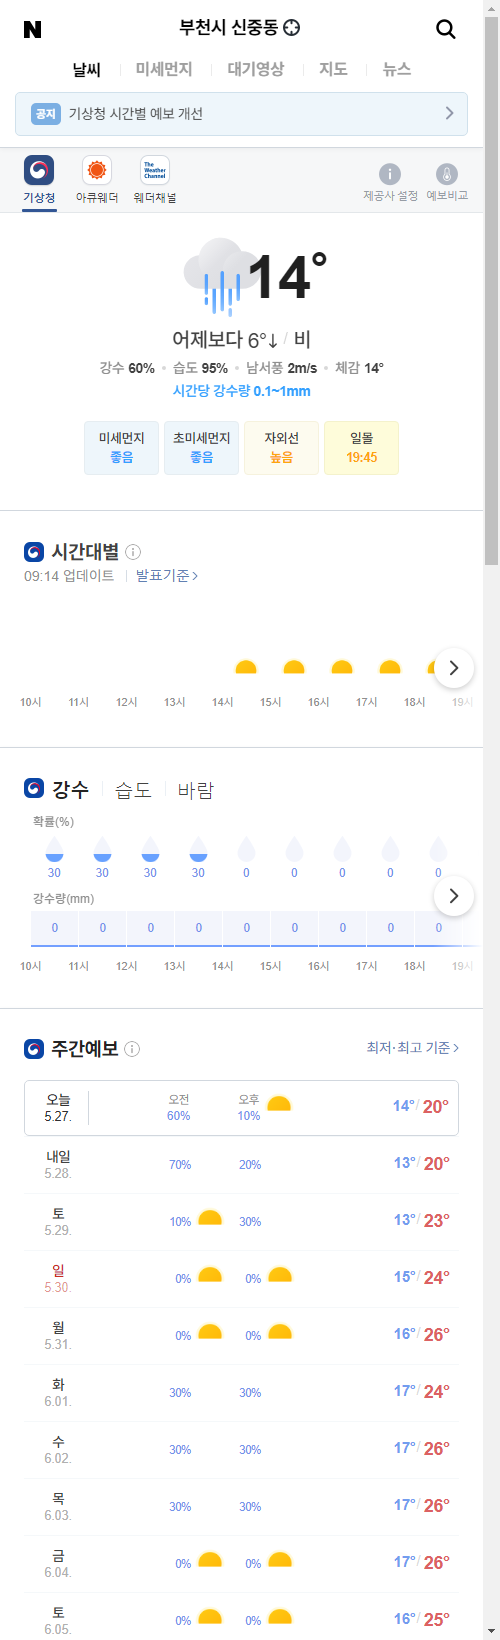
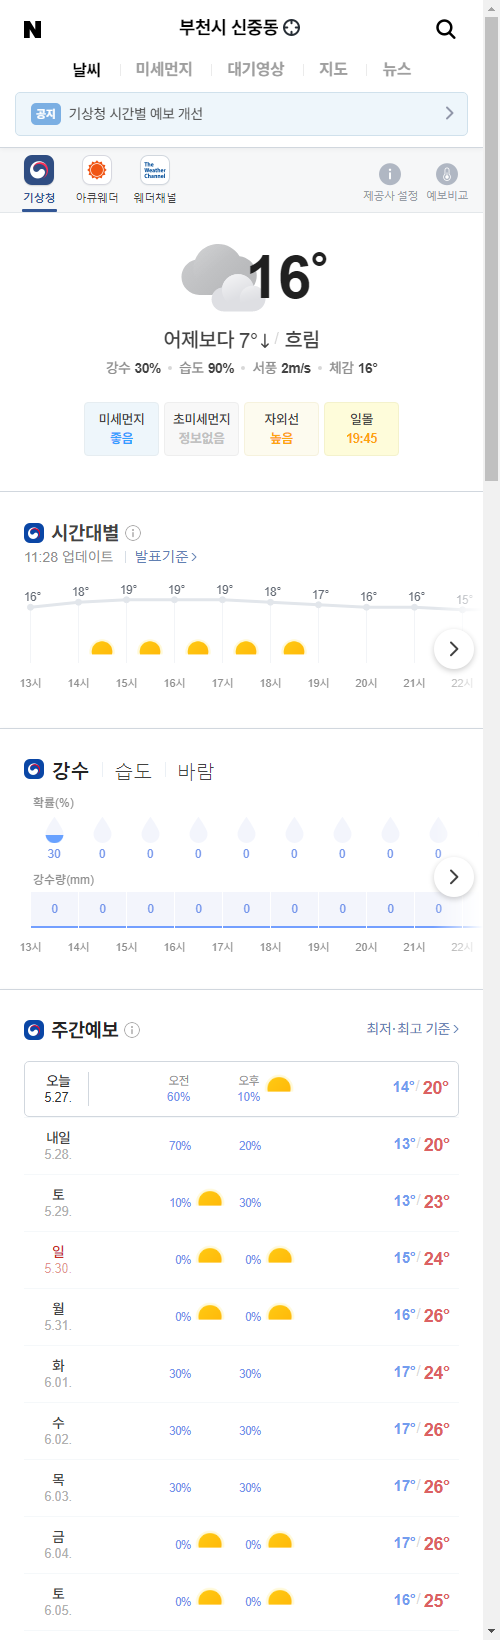
update result

diff --git a/README.md b/README.md
@@ -1,5 +1,5 @@
-##  2021-05-27 09:16:50   목요일 
-##### 날씨   -   어제보다 6° 낮아요비  
+##  2021-05-27 12:07:38   목요일 
+##### 날씨   -   어제보다 7° 낮아요흐림  
 <center><img src="../img/naver_weather_week.png"></center>
 ----
 ----
@@ -16,14 +16,14 @@
 <tr align = "right" > <td>DOW</td><td>34,323.05</td><td>10.59</td><td><font size="3" color="red" >0.03%</font></td><td><font size="3" color="black">0</font></td><td><font size="3" color="black">0</font></td><td>0</td>  </tr>
 <tr align = "right" > <td>NASDAQ</td><td>13,738.0</td><td>80.83</td><td><font size="3" color="red" >0.59%</font></td><td><font size="3" color="black">0</font></td><td><font size="3" color="black">0</font></td><td>0</td>  </tr>
 <tr align = "right" > <td>S&P</td><td>4,195.99</td><td>7.86</td><td><font size="3" color="red" >0.19%</font></td><td><font size="3" color="black">0</font></td><td><font size="3" color="black">0</font></td><td>0</td>  </tr>
-<tr align = "right" > <td>SHANHAI</td><td>3,593.36</td><td>12.02</td><td><font size="3" color="red" >0.34%</font></td><td><font size="3" color="black">0</font></td><td><font size="3" color="black">0</font></td><td>0</td>  </tr>
+<tr align = "right" > <td>SHANHAI</td><td>3,620.87</td><td>27.51</td><td><font size="3" color="red" >0.77%</font></td><td><font size="3" color="black">0</font></td><td><font size="3" color="black">0</font></td><td>0</td>  </tr>
 <tr align = "right" > <td>INDIA</td><td>51,017.52</td><td>379.99</td><td><font size="3" color="red" >0.75%</font></td><td><font size="3" color="black">0</font></td><td><font size="3" color="black">0</font></td><td>0</td>  </tr>
 </table>
 ----
 ##### 시장
 <table border="1" bordercolor="blue" align = "center" >
 <tr align = "right" > <td>Item</td><td>Price</td><td>Diff</td><td>Rate</td><td>Buy</td><td>Sell</td><td>...</td>  </tr>
-<tr align = "right" > <td>USD</td><td>1,118.0</td><td>1.0</td><td><font size="3" color="red">0.09%</font></td><td><font size="3" color="black">1,110</font></td><td><font size="3" color="black">0</font></td><td>0</td>  </tr>
+<tr align = "right" > <td>USD</td><td>1,117.0</td><td>0.5</td><td><font size="3" color="red">0.04%</font></td><td><font size="3" color="black">1,110</font></td><td><font size="3" color="black">0</font></td><td>0</td>  </tr>
 <tr align = "right" > <td>WTI</td><td>66.21</td><td>0.14</td><td><font size="3" color="red">0.21%</font></td><td><font size="3" color="black">29.0</font></td><td><font size="3" color="black">0</font></td><td>0</td>  </tr>
 <tr align = "right" > <td>GOLD</td><td>1,901.0</td><td>3.2</td><td><font size="3" color="red">0.16%</font></td><td><font size="3" color="black">0</font></td><td><font size="3" color="black">0</font></td><td>0</td>  </tr>
 </table>
@@ -31,26 +31,26 @@
 ##### 주가
 <table border="1" bordercolor="blue" align = "center" >
 <tr align = "right" > <td>Item</td><td>Price</td><td>Diff</td><td>Rate</td><td>Purchased</td><td>Sell</td><td>Buy</td>  </tr>
-<tr align = "right" > <td>한국 전력</td><td>26,300</td><td>50</td><td><font size="3" color="red">0.19%</font></td><td>25,720</td><td><font size="3" color="black">27,700</font></td><td><font size="3" color="black">20,700</font></td>  </tr>
+<tr align = "right" > <td>한국 전력</td><td>26,100</td><td>-150</td><td><font size="3" color="blue">-0.57%</font></td><td>25,720</td><td><font size="3" color="black">27,700</font></td><td><font size="3" color="black">20,700</font></td>  </tr>
 <tr align = "right" > <td>삼성엔지니어.</td><td>18,900</td><td>200</td><td><font size="3" color="red">1.07%</font></td><td>18,935</td><td><font size="3" color="black">20,000</font></td><td><font size="3" color="black">8,000</font></td>  </tr>
-<tr align = "right" > <td>CJ CGV</td><td>31,650</td><td>-300</td><td><font size="3" color="blue">-0.94%</font></td><td>34,895</td><td><font size="3" color="black">36,000</font></td><td><font size="3" color="black">0</font></td>  </tr>
-<tr align = "right" > <td>아모레퍼시픽</td><td>299,500</td><td>2,500</td><td><font size="3" color="red">0.84%</font></td><td>235,350</td><td><font size="3" color="black">240,000</font></td><td><font size="3" color="black">130,000</font></td>  </tr>
-<tr align = "right" > <td>한화</td><td>32,600</td><td>400</td><td><font size="3" color="red">1.24%</font></td><td>25,550</td><td><font size="3" color="black">26,250</font></td><td><font size="3" color="black">26,250</font></td>  </tr>
-<tr align = "right" > <td>NAVER</td><td>357,500</td><td>-5,500</td><td><font size="3" color="blue">-1.52%</font></td><td>147,200</td><td><font size="3" color="black">386,000</font></td><td><font size="3" color="black">286,000</font></td>  </tr>
-<tr align = "right" > <td>LG 화학우</td><td>373,000</td><td>-14,000</td><td><font size="3" color="blue">-3.62%</font></td><td>202,490</td><td><font size="3" color="black">384,000</font></td><td><font size="3" color="orangered">384,000</font></td>  </tr>
-<tr align = "right" > <td>스튜디오드래.</td><td>95,800</td><td>300</td><td><font size="3" color="red">0.31%</font></td><td>81,243</td><td><font size="3" color="black">85,200</font></td><td><font size="3" color="black">85,200</font></td>  </tr>
-<tr align = "right" > <td>QV미국IT</td><td>28,480</td><td>-5</td><td><font size="3" color="blue">-0.02%</font></td><td>0</td><td><font size="3" color="black">30,000</font></td><td><font size="3" color="black">20,000</font></td>  </tr>
-<tr align = "right" > <td>삼성 전자우</td><td>72,600</td><td>-400</td><td><font size="3" color="blue">-0.55%</font></td><td>48,250</td><td><font size="3" color="black">56,000</font></td><td><font size="3" color="black">45,000</font></td>  </tr>
-<tr align = "right" > <td>LS</td><td>68,300</td><td>-100</td><td><font size="3" color="blue">-0.15%</font></td><td>71,900</td><td><font size="3" color="black">82,000</font></td><td><font size="3" color="black">60,000</font></td>  </tr>
-<tr align = "right" > <td>한화에어로스.</td><td>48,650</td><td>-400</td><td><font size="3" color="blue">-0.82%</font></td><td>25,700</td><td><font size="3" color="black">30,000</font></td><td><font size="3" color="black">24,000</font></td>  </tr>
-<tr align = "right" > <td>카카오</td><td>119,500</td><td>0</td><td><font size="3" color="black">0.0%</font></td><td>405,500</td><td><font size="3" color="black">440,000</font></td><td><font size="3" color="orangered">400,000</font></td>  </tr>
-<tr align = "right" > <td>호텔 신라</td><td>98,100</td><td>0</td><td><font size="3" color="black">0.0%</font></td><td>72,800</td><td><font size="3" color="black">100,000</font></td><td><font size="3" color="black">70,000</font></td>  </tr>
-<tr align = "right" > <td>S-Oil</td><td>97,400</td><td>-200</td><td><font size="3" color="blue">-0.2%</font></td><td>62,842</td><td><font size="3" color="black">100,000</font></td><td><font size="3" color="black">50,000</font></td>  </tr>
-<tr align = "right" > <td>LG전자</td><td>151,000</td><td>-1,000</td><td><font size="3" color="blue">-0.66%</font></td><td>82,022</td><td><font size="3" color="black">100,000</font></td><td><font size="3" color="black">60,000</font></td>  </tr>
-<tr align = "right" > <td>KT&G</td><td>83,400</td><td>200</td><td><font size="3" color="red">0.24%</font></td><td>80,400</td><td><font size="3" color="black">100,000</font></td><td><font size="3" color="black">70,000</font></td>  </tr>
-<tr align = "right" > <td>지역난방공사</td><td>43,850</td><td>350</td><td><font size="3" color="red">0.8%</font></td><td>43,590</td><td><font size="3" color="black">60,000</font></td><td><font size="3" color="black">30,000</font></td>  </tr>
-<tr align = "right" > <td>KOEDX은행</td><td>7,615</td><td>20</td><td><font size="3" color="red">0.26%</font></td><td>5,178</td><td><font size="3" color="black">6,225</font></td><td><font size="3" color="black">6,225</font></td>  </tr>
-<tr align = "right" > <td>글로벌럭셔리</td><td>17,640</td><td>140</td><td><font size="3" color="red">0.8%</font></td><td>15,260</td><td><font size="3" color="black">20,000</font></td><td><font size="3" color="black">10,000</font></td>  </tr>
-<tr align = "right" > <td>한국금융지주</td><td>103,500</td><td>-1,000</td><td><font size="3" color="blue">-0.96%</font></td><td>0</td><td><font size="3" color="black">82,000</font></td><td><font size="3" color="black">60,000</font></td>  </tr>
+<tr align = "right" > <td>CJ CGV</td><td>31,950</td><td>0</td><td><font size="3" color="black">0.0%</font></td><td>34,895</td><td><font size="3" color="black">36,000</font></td><td><font size="3" color="black">0</font></td>  </tr>
+<tr align = "right" > <td>아모레퍼시픽</td><td>288,500</td><td>-8,500</td><td><font size="3" color="blue">-2.86%</font></td><td>235,350</td><td><font size="3" color="black">240,000</font></td><td><font size="3" color="black">130,000</font></td>  </tr>
+<tr align = "right" > <td>한화</td><td>32,000</td><td>-200</td><td><font size="3" color="blue">-0.62%</font></td><td>25,550</td><td><font size="3" color="black">26,250</font></td><td><font size="3" color="black">26,250</font></td>  </tr>
+<tr align = "right" > <td>NAVER</td><td>354,500</td><td>-8,500</td><td><font size="3" color="blue">-2.34%</font></td><td>147,200</td><td><font size="3" color="black">386,000</font></td><td><font size="3" color="black">286,000</font></td>  </tr>
+<tr align = "right" > <td>LG 화학우</td><td>368,500</td><td>-18,500</td><td><font size="3" color="blue">-4.78%</font></td><td>202,490</td><td><font size="3" color="black">384,000</font></td><td><font size="3" color="orangered">384,000</font></td>  </tr>
+<tr align = "right" > <td>스튜디오드래.</td><td>95,400</td><td>-100</td><td><font size="3" color="blue">-0.1%</font></td><td>81,243</td><td><font size="3" color="black">85,200</font></td><td><font size="3" color="black">85,200</font></td>  </tr>
+<tr align = "right" > <td>QV미국IT</td><td>28,350</td><td>-135</td><td><font size="3" color="blue">-0.47%</font></td><td>0</td><td><font size="3" color="black">30,000</font></td><td><font size="3" color="black">20,000</font></td>  </tr>
+<tr align = "right" > <td>삼성 전자우</td><td>72,500</td><td>-500</td><td><font size="3" color="blue">-0.68%</font></td><td>48,250</td><td><font size="3" color="black">56,000</font></td><td><font size="3" color="black">45,000</font></td>  </tr>
+<tr align = "right" > <td>LS</td><td>67,600</td><td>-800</td><td><font size="3" color="blue">-1.17%</font></td><td>71,900</td><td><font size="3" color="black">82,000</font></td><td><font size="3" color="black">60,000</font></td>  </tr>
+<tr align = "right" > <td>한화에어로스.</td><td>47,800</td><td>-1,250</td><td><font size="3" color="blue">-2.55%</font></td><td>25,700</td><td><font size="3" color="black">30,000</font></td><td><font size="3" color="black">24,000</font></td>  </tr>
+<tr align = "right" > <td>카카오</td><td>121,000</td><td>1,500</td><td><font size="3" color="red">1.26%</font></td><td>405,500</td><td><font size="3" color="black">440,000</font></td><td><font size="3" color="orangered">400,000</font></td>  </tr>
+<tr align = "right" > <td>호텔 신라</td><td>98,000</td><td>-100</td><td><font size="3" color="blue">-0.1%</font></td><td>72,800</td><td><font size="3" color="black">100,000</font></td><td><font size="3" color="black">70,000</font></td>  </tr>
+<tr align = "right" > <td>S-Oil</td><td>95,200</td><td>-2,400</td><td><font size="3" color="blue">-2.46%</font></td><td>62,842</td><td><font size="3" color="black">100,000</font></td><td><font size="3" color="black">50,000</font></td>  </tr>
+<tr align = "right" > <td>LG전자</td><td>149,000</td><td>-3,000</td><td><font size="3" color="blue">-1.97%</font></td><td>82,022</td><td><font size="3" color="black">100,000</font></td><td><font size="3" color="black">60,000</font></td>  </tr>
+<tr align = "right" > <td>KT&G</td><td>83,600</td><td>400</td><td><font size="3" color="red">0.48%</font></td><td>80,400</td><td><font size="3" color="black">100,000</font></td><td><font size="3" color="black">70,000</font></td>  </tr>
+<tr align = "right" > <td>지역난방공사</td><td>43,900</td><td>400</td><td><font size="3" color="red">0.92%</font></td><td>43,590</td><td><font size="3" color="black">60,000</font></td><td><font size="3" color="black">30,000</font></td>  </tr>
+<tr align = "right" > <td>KOEDX은행</td><td>7,530</td><td>-65</td><td><font size="3" color="blue">-0.86%</font></td><td>5,178</td><td><font size="3" color="black">6,225</font></td><td><font size="3" color="black">6,225</font></td>  </tr>
+<tr align = "right" > <td>글로벌럭셔리</td><td>17,550</td><td>50</td><td><font size="3" color="red">0.29%</font></td><td>15,260</td><td><font size="3" color="black">20,000</font></td><td><font size="3" color="black">10,000</font></td>  </tr>
+<tr align = "right" > <td>한국금융지주</td><td>102,500</td><td>-2,000</td><td><font size="3" color="blue">-1.91%</font></td><td>0</td><td><font size="3" color="black">82,000</font></td><td><font size="3" color="black">60,000</font></td>  </tr>
 </table>
 ----
